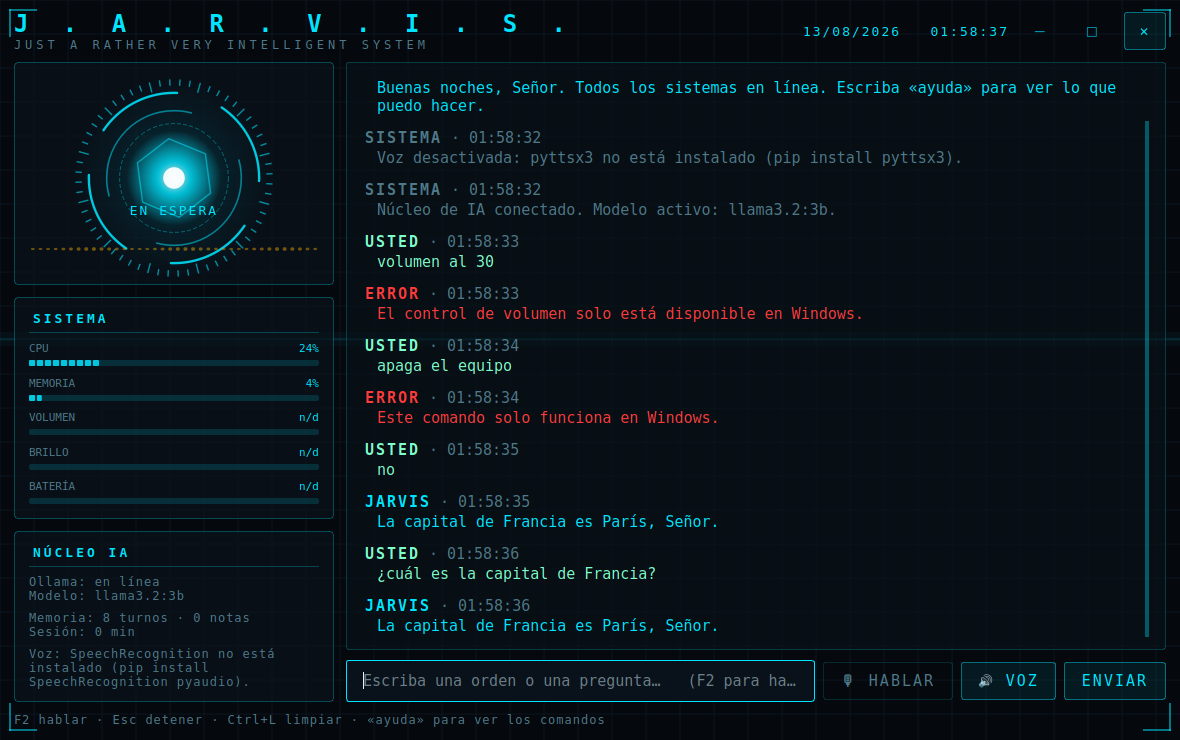
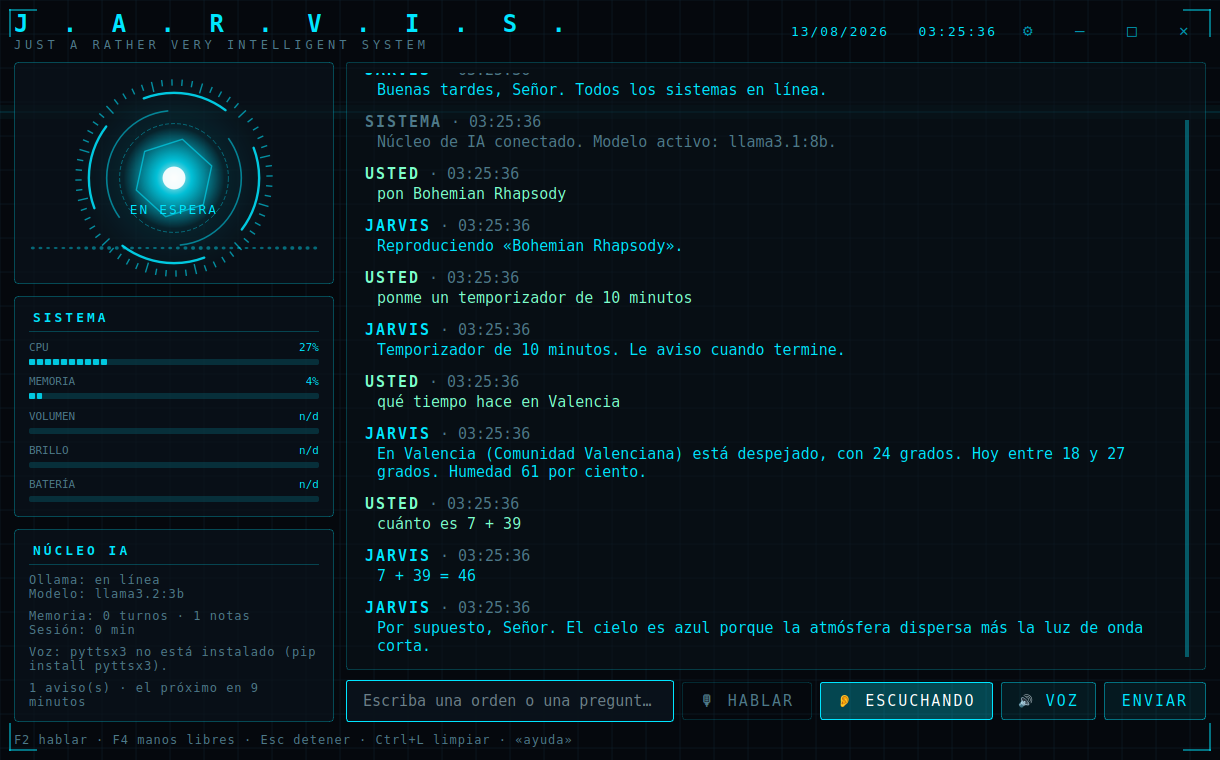
Actualizar el README con todo lo añadido
Documenta los avisos, las notas y listas, el manos libres con «Oye JARVIS»,
el panel de ajustes, el registro de errores y la bateria de pruebas. Se
actualiza la estructura del proyecto, la captura de pantalla y los atajos de
teclado, y se añade una seccion sobre como ejecutar las pruebas.

Se explica ademas algo que conviene tener claro para confiar en el asistente:
las ordenes de verdad no pasan por el modelo de lenguaje, las resuelve el
programa, asi que son instantaneas y no se inventan nada.

Claude-Session: https://claude.ai/code/session_01EF7K1deSanu7myCkHczoDv

diff --git a/README.md b/README.md
@@ -1,10 +1,13 @@
 # J.A.R.V.I.S. — Asistente de escritorio para Windows
 
 Un asistente personal que corre **entero en tu ordenador**, sin claves de API ni
-servicios de pago. Habla contigo, abre tus programas, busca tus archivos,
-controla el volumen y el brillo, apaga el equipo (pidiéndote confirmación
-antes) y contesta a cualquier pregunta usando un modelo de lenguaje local a
-través de **Ollama**.
+servicios de pago. Habla contigo, abre tus programas, busca tus archivos, pone
+música, te dice el tiempo, te avisa con temporizadores, controla el volumen y
+el brillo, apaga el equipo (pidiéndote confirmación antes) y contesta a
+cualquier pregunta usando un modelo de lenguaje local a través de **Ollama**.
+
+Responde por texto o por voz, y en modo manos libres basta con decir
+**«Oye JARVIS»**.
 
 Todo dentro de una interfaz estilo Iron Man: fondo oscuro, cian, círculos
 animados y un reactor arc que reacciona a lo que está haciendo el asistente.
@@ -27,7 +30,8 @@ animados y un reactor arc que reacciona a lo que está haciendo el asistente.
 4. [Cómo se usa](#4-cómo-se-usa)
 5. [Configuración](#5-configuración)
 6. [Problemas comunes](#6-problemas-comunes)
-7. [Cómo añadir tus propios comandos](#7-cómo-añadir-tus-propios-comandos)
+7. [Las pruebas](#7-las-pruebas)
+8. [Cómo añadir tus propios comandos](#8-cómo-añadir-tus-propios-comandos)
 
 ---
 
@@ -41,12 +45,22 @@ animados y un reactor arc que reacciona a lo que está haciendo el asistente.
 | **Música** | «pon Bohemian Rhapsody» (la reproduce de verdad), «pon música», «pausa», «siguiente canción» |
 | **El tiempo** | «¿qué tiempo hace?», «el clima en Valencia», «¿va a llover?» |
 | **Cuentas** | «cuánto es 7 + 39», «el 20 por ciento de 350», «raíz de 144» |
+| **Avisos** ⏰ | «ponme un temporizador de 10 minutos», «recuérdame a las 17:30 que llame al dentista», «despiértame a las 7» |
+| **Notas y listas** | «apunta leche en la lista de la compra», «lee mi lista de la compra», «quita leche de la compra» |
 | **Volumen** | «sube el volumen», «baja el volumen 20», «volumen al 40», «silencia» |
 | **Brillo** | «sube el brillo», «brillo al 70», «baja el brillo» |
 | **Energía** ⚠ | «apaga el equipo», «reinicia», «suspende», «bloquea el equipo», «cancela el apagado» |
 | **Memoria** | «recuerda que mañana tengo dentista», «¿qué te dije?», «olvida todo» |
 | **Sistema** | «estado del sistema», «qué hora es», «captura de pantalla» |
 | **Cualquier otra cosa** | «¿por qué el cielo es azul?», «escríbeme un correo de disculpa», «explícame las listas en Python» |
+
+**Manos libres**: pulsa **F4** y a partir de ahí basta con decir **«Oye JARVIS,
+pon música»** sin tocar el teclado.
+
+**Lo que importa de todo esto**: las órdenes reales (abrir programas, música,
+el tiempo, las cuentas, los avisos) **no pasan por el modelo de lenguaje**.
+Las resuelve el propio programa, así que son instantáneas y no se inventan
+nada. El modelo solo entra cuando le preguntas algo de conversación.
 
 ⚠ **Apagar, reiniciar y cerrar sesión siempre piden confirmación.** El
 asistente te pregunta «¿lo confirma?» y solo actúa si respondes *sí*. Además el
@@ -66,36 +80,45 @@ después preguntarle «¿cómo me llamo?». Lo que le pidas recordar con
 J.A.R.V.I.S/
 │
 ├── main.py                  ← ARRANCA AQUÍ. Conecta todas las piezas.
+├── probar.py                ← ejecuta las pruebas
 ├── requirements.txt         ← lista de librerías
 ├── instalar.bat             ← instalación automática (doble clic)
 ├── ejecutar.bat             ← arranca el asistente (doble clic)
 │
-└── jarvis/
-    ├── config.py            ← configuración (colores, modelo, alias, atajos)
-    │
-    ├── core/                ← el cerebro
-    │   ├── assistant.py     ← decide: ¿es un comando o una pregunta al modelo?
-    │   ├── memory.py        ← memoria de la conversación y notas permanentes
-    │   ├── ollama_client.py ← conexión con el modelo local de Ollama
-    │   └── speech.py        ← voz: pyttsx3 (hablar) y SpeechRecognition (oír)
-    │
-    ├── commands/            ← todo lo que puede hacer en tu equipo
-    │   ├── registry.py      ← interpreta la frase y llama al comando correcto
-    │   ├── apps.py          ← abrir programas instalados
-    │   ├── files.py         ← buscar y abrir archivos y carpetas
-    │   ├── system.py        ← volumen, brillo, apagar, reiniciar, suspender
-    │   ├── web.py           ← abrir webs y buscar en Google/YouTube
-    │   └── base.py          ← tipos comunes a todos los comandos
-    │
-    └── ui/                  ← la interfaz gráfica (PyQt6)
-        ├── main_window.py   ← la ventana principal
-        ├── theme.py         ← colores y hoja de estilos
-        ├── workers.py       ← hilos, para que la ventana nunca se congele
-        └── widgets/
-            ├── arc_reactor.py ← el círculo animado del centro
-            ├── chat_view.py   ← el área de conversación
-            ├── hud.py         ← rejilla de fondo y barras de estado
-            └── waveform.py    ← la onda de audio animada
+├── jarvis/
+│   ├── config.py            ← configuración (colores, modelo, alias, atajos)
+│   ├── logging_setup.py     ← registro de errores en ~/.jarvis/jarvis.log
+│   │
+│   ├── core/                ← el cerebro
+│   │   ├── assistant.py     ← decide: ¿es un comando o una pregunta al modelo?
+│   │   ├── memory.py        ← memoria de la conversación y notas permanentes
+│   │   ├── ollama_client.py ← conexión con el modelo local de Ollama
+│   │   └── speech.py        ← voz: hablar, oír y la palabra clave
+│   │
+│   ├── commands/            ← todo lo que puede hacer en tu equipo
+│   │   ├── registry.py      ← interpreta la frase y llama al comando correcto
+│   │   ├── apps.py          ← abrir programas instalados
+│   │   ├── files.py         ← buscar y abrir archivos y carpetas
+│   │   ├── system.py        ← volumen, brillo, multimedia, apagar, reiniciar
+│   │   ├── web.py           ← webs, búsquedas y reproducir canciones
+│   │   ├── weather.py       ← el tiempo (Open-Meteo, sin clave de API)
+│   │   ├── calc.py          ← calculadora segura
+│   │   ├── reminders.py     ← temporizadores, alarmas y recordatorios
+│   │   ├── notes.py         ← notas y listas
+│   │   └── base.py          ← tipos comunes a todos los comandos
+│   │
+│   └── ui/                  ← la interfaz gráfica (PyQt6)
+│       ├── main_window.py   ← la ventana principal
+│       ├── settings_dialog.py ← el panel de ajustes
+│       ├── theme.py         ← colores y hoja de estilos
+│       ├── workers.py       ← hilos, para que la ventana nunca se congele
+│       └── widgets/
+│           ├── arc_reactor.py ← el círculo animado del centro
+│           ├── chat_view.py   ← el área de conversación
+│           ├── hud.py         ← rejilla de fondo y barras de estado
+│           └── waveform.py    ← la onda de audio animada
+│
+└── tests/                   ← 330 pruebas automáticas
 ```
 
 **La idea de la separación**: `commands/` no sabe nada de la interfaz,
@@ -290,14 +313,29 @@ Windows y lo que digas se escribe directamente en la caja; pulsa Enter y ya.
 Reconoce mejor que el micrófono integrado del asistente, funciona sin
 conexión y no depende de PyAudio. Si el botón 🎙 te da problemas, usa esto.
 
+**Manos libres:** pulsa **F4** (o el botón 👂). A partir de ahí el asistente
+escucha de fondo y responde cuando dices **«Oye JARVIS…»**:
+
+```
+Oye JARVIS, pon música
+Oye JARVIS, ¿qué tiempo hace?
+Oye JARVIS, ponme un temporizador de 10 minutos
+```
+
+Si dices solo «Oye JARVIS» se queda esperando a que le digas la orden. No
+escucha mientras habla (se oiría a sí mismo) y acepta las variantes que suele
+entender el reconocedor: *Yarvis*, *Jarbis*, *Travis*…
+
 **Atajos de teclado:**
 
 | Tecla | Qué hace |
 |---|---|
 | `Enter` | enviar el mensaje |
-| `F2` | dictar por micrófono |
+| `F2` | dictar por micrófono (una vez) |
+| `F4` | activar o desactivar el manos libres |
 | `Esc` | callar al asistente y detener la respuesta |
 | `Ctrl+L` | limpiar la conversación |
+| `Ctrl+,` | abrir los ajustes |
 | `Ctrl+Q` | cerrar |
 
 También puedes mover la ventana arrastrando la barra superior, y
@@ -319,13 +357,30 @@ maximizarla con doble clic en esa misma barra.
 
 ## 5. Configuración
 
-La primera vez que arrancas se crea el archivo:
+### Lo fácil: el panel de ajustes
+
+Pulsa el botón **⚙** de la barra superior (o **Ctrl+,**). Desde ahí cambias el
+modelo, la ciudad del tiempo, la voz, la palabra clave, el color del panel y
+las opciones de seguridad, sin tocar ningún archivo.
+
+![Panel de ajustes](docs/ajustes.png)
+
+El modelo y la voz se aplican al momento; los cambios de aspecto se ven al
+reiniciar el asistente (te lo avisa).
+
+### Lo avanzado: el archivo de configuración
+
+Para los alias de aplicaciones y los sitios web propios, edita:
 
 ```
 C:\Users\TU_USUARIO\.jarvis\config.json
 ```
 
-Ábrelo con el Bloc de notas para personalizarlo. Lo más útil:
+En esa misma carpeta están tus datos: `memoria.json` (lo que le pediste
+recordar), `avisos.json` (alarmas), `notas.json` (listas) y `jarvis.log`
+(el registro de errores).
+
+Lo más útil de editar a mano:
 
 ```jsonc
 {
@@ -375,6 +430,10 @@ Guarda el archivo y reinicia el asistente para que se apliquen los cambios.
 ---
 
 ## 6. Problemas comunes
+
+> **Antes de nada**: cuando algo falle, mira el registro de errores en
+> `C:\Users\TU_USUARIO\.jarvis\jarvis.log`. Como el asistente arranca sin
+> consola, ese archivo es donde queda apuntado todo lo que va mal.
 
 <details>
 <summary><b>«No detecto Ollama en marcha»</b></summary>
@@ -546,7 +605,34 @@ rejilla animada y el giro del reactor, y el consumo baja bastante.
 
 ---
 
-## 7. Cómo añadir tus propios comandos
+## 7. Las pruebas
+
+El proyecto trae 330 pruebas automáticas. Si tocas el código, ejecútalas
+antes de dar nada por bueno:
+
+```bat
+pip install pytest
+python probar.py
+```
+
+También puedes lanzar solo una parte:
+
+```bat
+python probar.py comandos      REM las que llevan "comandos" en el nombre
+python probar.py -v            REM con el detalle de cada prueba
+```
+
+Ninguna prueba toca tu sistema: no abre programas, no cambia el volumen, no
+usa internet y **no puede apagar el ordenador**. Tu memoria, tus notas y tus
+alarmas tampoco se tocan, porque se redirigen a una carpeta temporal.
+
+Hay dos grupos que conviene no romper nunca:
+
+- Que **«apaga la música» no apague el ordenador** y que apagar siempre pida
+  confirmación.
+- Que la **calculadora rechace código** en vez de ejecutarlo.
+
+## 8. Cómo añadir tus propios comandos
 
 Todo se hace en un solo sitio. Abre `jarvis/commands/registry.py` y busca el
 método que encaje (o crea uno nuevo). Por ejemplo, para añadir «modo cine»
